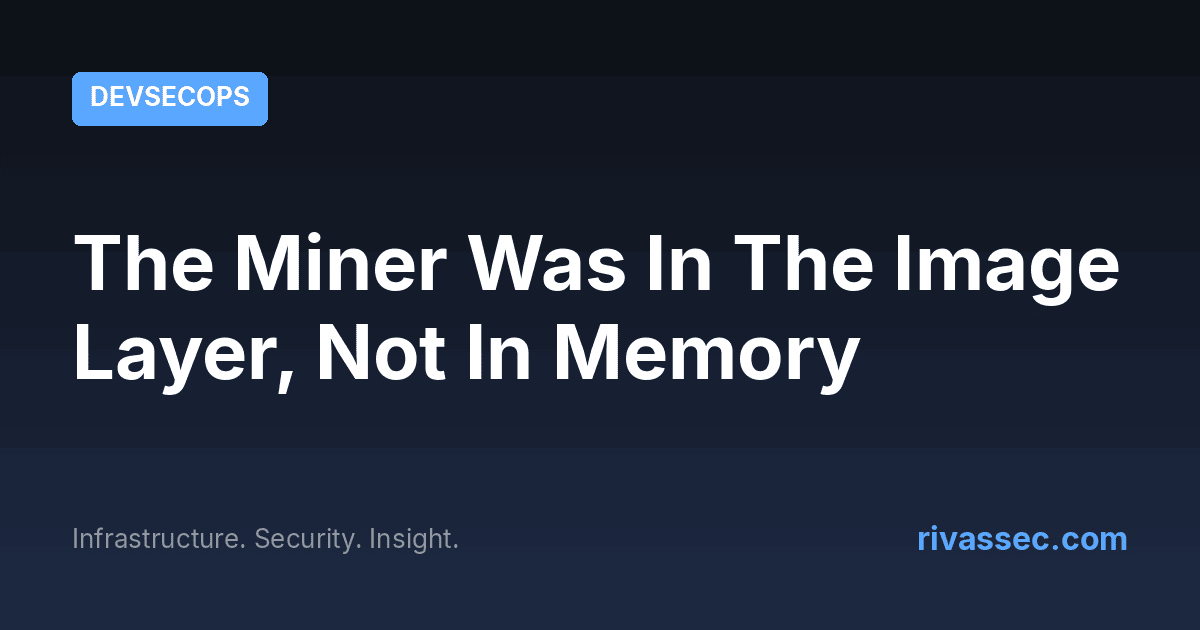
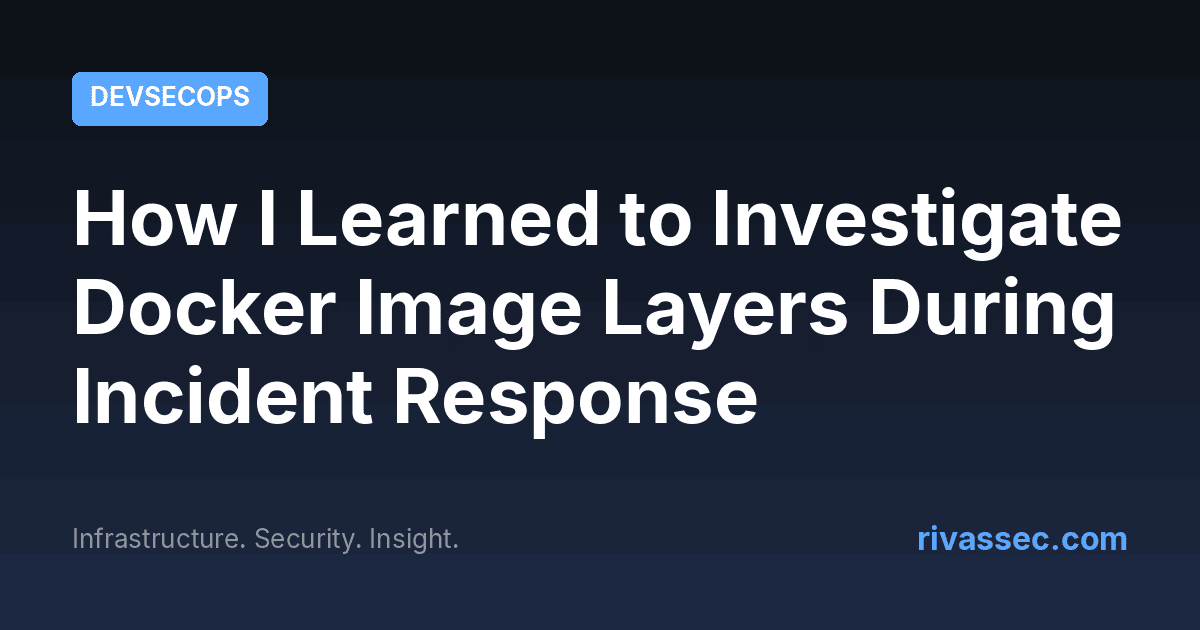
draft(cryptominer): sanitize per pre-publish security review
Applied the reviewer's recommendations to remove employer-shaped
fingerprinting from the post:

- Title shifted from incident-report ("The Miner Was In...") to
  pedagogical ("How I Learned to Investigate...") so the framing
  reads as a lesson rather than a leaked retrospective
- Lede rewritten as "during a recent container-forensics
  investigation" rather than naming the specific cloud detector
- Application stack: Flink references replaced with "Java-based
  data-processing workload" and "the application"
- IOCs removed: malware path placeholdered (<app>/<hidden_dir>/
  <obfuscated_subdir>/<binary>), SHA-256 hash removed entirely,
  overlay2 layer ID replaced with <layer-id>
- Public Monero pool domain replaced with "a public Monero mining
  pool"
- "GuardDuty" reduced to one explanatory mention plus the tag list;
  rest of the prose uses "the runtime sensor" / "cloud detector" /
  "correlation finding"
- "Falcon" removed entirely; replaced with "endpoint detector" in
  the sequel-teaser paragraph
- Attribution section compressed: removed the "image had not been
  pulled in months / mtime sat well after / unrelated stability
  issue / host got rebuilt" timeline beats that collectively form
  organizational fingerprinting; the technical hypotheses (tag
  rewrite vs on-disk tamper) survive
- Cover regenerated to match the new title

The sanitized post preserves ~95% of the technical content (overlay2
mechanics, LowerDir cross-reference, four-step validation sweep,
[…]

Changed region(s): [[0.0617, 0.3016, 0.9558, 0.6937]]

diff --git a/content/cryptominer-in-the-docker-layer.md b/content/cryptominer-in-the-docker-layer.md
@@ -1,19 +1,19 @@
-Title: The Miner Was In The Image Layer, Not In Memory
+Title: How I Learned to Investigate Docker Image Layers During Incident Response
 Date: 2026-06-24
 Modified: 2026-06-24
 Author: RivasSec
 Category: DevSecOps
 Tags: incident-response, docker, overlay2, cryptominer, guardduty, aws, forensics
 Slug: cryptominer-in-the-docker-layer
-Summary: GuardDuty said the host was mining. `ps` and `ss` came back clean. The miner was hiding one layer lower, baked into the image's overlay2 diff directory and re-dropped on every container restart. A walk through the IR sweep that almost called it a false-positive.
+Summary: A runtime detector said the host was mining. `ps` and `ss` came back clean. The miner was hiding one layer lower, baked into the image's overlay2 diff directory and re-dropped on every container restart. A walk through the IR sweep that almost called it a false-positive.
 Cover: images/covers/cryptominer-in-the-docker-layer.png
 Status: draft
 
 [TOC]
 
-GuardDuty fired several findings on a production EC2 instance in quick succession. Two `CryptoCurrency:Runtime/BitcoinTool.B!DNS` against the host and against a container on the host, one `CryptoCurrency:EC2/BitcoinTool.B!DNS` from the VPC DNS resolver, and an `AttackSequence:EC2/CompromisedInstanceGroup` correlating the others into one critical-severity event. The destination was `auto.c3pool.org`, a public Monero pool. The instance was a Flink job server.
+During a recent container-forensics investigation, I worked through an incident where the on-disk picture and the runtime picture were saying different things. The cloud provider's runtime sensor fired several correlated findings on a production EC2 instance: two cryptomining DNS detections (one against the host, one against a container running on it), one VPC-resolver-level finding for the same lookups, and a correlation finding that stitched them all into a single critical-severity event. The destination was a public Monero mining pool. The instance was running a Java-based data-processing workload in a container.
 
-I opened an SSM session onto the host, ran `ps -ef` inside the container, ran `ss -tunap`, and found nothing. No miner process. No outbound connection to the pool. No CPU pressure. The Java heap looked normal. The Flink job manager was happily doing what Flink job managers do.
+I opened an SSM session onto the host, ran `ps -ef` inside the container, ran `ss -tunap`, and found nothing. No miner process. No outbound connection to the pool. No CPU pressure. The Java heap looked normal. The application was happily doing what the application was supposed to be doing.
 
 For a while I was sure I was looking at a false-positive.
 
@@ -23,36 +23,36 @@ The miner was on disk, in one of the image's overlay2 layers. The container's fi
 
 ## The shape of the alert
 
-A modern GuardDuty IR loop has two tiers. There are the per-signal findings, which fire on a single observation: a DNS query to a known mining pool, an SSH brute-force attempt, a port scan against a sensitive port. They are designed for noise reduction. Most of them are individually low-confidence and will resolve as false-positive once a human looks.
+A modern cloud-detector IR loop has two tiers. There are the per-signal findings, which fire on a single observation: a DNS query to a known mining pool, an SSH brute-force attempt, a port scan against a sensitive port. They are designed for noise reduction. Most of them are individually low-confidence and will resolve as false-positive once a human looks.
 
-Then there are the correlation findings. `AttackSequence:EC2/CompromisedInstanceGroup` is one of those. It does not fire on a single signal. It fires when GuardDuty has stitched together several signals into a coherent story: a brute-force from a known-bad IP, then a port probe from a different known-bad IP, then a process inside a container talking to a mining pool, all on the same instance, in the same window. The finding hands you the timeline pre-assembled.
+Then there are the correlation findings. AWS GuardDuty calls these `AttackSequence` findings; other clouds and EDRs have analogues. The defining property is that they do not fire on a single signal. They fire when the detector has stitched several signals into a coherent story: a brute-force from a known-bad IP, then a port probe from a different known-bad IP, then a process inside a container talking to a mining pool, all on the same instance, in the same window. The finding hands you the timeline pre-assembled.
 
 Per-signal findings can be wrong. Correlation findings can be wrong too, but in my experience they earn priority because they pre-stitch the timeline and tend to carry the highest-confidence detail in the inbox. The lesson I keep relearning is to read them first, especially before declaring per-signal findings false-positive.
 
-In this case the AttackSequence finding listed the file path on disk:
+In this case the correlation finding listed the file path on disk:
 
 ```
-/opt/flink/.usr_gsdm/lib/systemdev/dns-filter
+/opt/<app>/.<hidden_dir>/lib/<obfuscated_subdir>/<binary>
 ```
 
-That string was in the JSON. Not a heuristic, not a prediction, a path. GuardDuty's runtime sensor had observed the binary executing and recorded its on-disk location.
+That string was in the JSON. Not a heuristic, not a prediction, a path. The runtime sensor had observed the binary executing and recorded its on-disk location.
 
 That is when I went looking on the host.
 
 ## The path that mattered
 
-The container view is not the host view. Inside the Flink job manager container, `/opt/flink/.usr_gsdm/lib/systemdev/dns-filter` resolves to whatever the overlayfs union mount makes visible at that moment. From the host, the same content lives in several overlay2 paths depending on what you are asking about. Two of them matter for this story.
+The container view is not the host view. Inside the running container, the binary path resolved to whatever the overlayfs union mount made visible at that moment. From the host, the same content lives in several overlay2 paths depending on what you are asking about. Two of them matter for this story.
 
 The first one is the image's diff directory:
 
 ```
-/var/lib/docker/overlay2/bed3ac13bfa4f2562f99ec7ec9f9be614371a16d6af056a66343cbb125b61b65/diff/opt/flink/.usr_gsdm/lib/systemdev/dns-filter
+/var/lib/docker/overlay2/<layer-id>/diff/opt/<app>/.<hidden_dir>/lib/<obfuscated_subdir>/<binary>
 ```
 
 The second one is the merged view, which is what the running container actually sees:
 
 ```
-/var/lib/docker/overlay2/bed3ac13bfa4f2562f99ec7ec9f9be614371a16d6af056a66343cbb125b61b65/merged/opt/flink/.usr_gsdm/lib/systemdev/dns-filter
+/var/lib/docker/overlay2/<layer-id>/merged/opt/<app>/.<hidden_dir>/lib/<obfuscated_subdir>/<binary>
 ```
 
 These two paths are related but not equivalent, and the difference is the entire post.
@@ -63,45 +63,35 @@ The `merged` directory is the union view of all layers stacked together. It is w
 
 The other two paths are `upperdir` (the writable layer the container can modify at runtime) and `workdir` (overlay's scratch space). I checked both. The malicious binary was in neither. It was in a lower layer's `diff` directory, the read-only foundation that came down with the image pull.
 
-To make sure I had the layer role right, I cross-referenced against `docker inspect <container>`. The `GraphDriver.Data.LowerDir` chain on the running container included this directory in its read-only stack, which is what marks it as a build-time image layer rather than the container's writable upper. `docker history` told me the image had `COPY` steps in its build (which is unsurprising for a Flink image) but `docker history` shows the instruction, not the per-file provenance, so I am not claiming it identified `dns-filter` specifically. The shape of the evidence is "this layer is in the LowerDir chain, the LowerDir chain is read-only, the running container's writable space is empty for this path." That is enough to place the file in an image layer.
+To make sure I had the layer role right, I cross-referenced against `docker inspect <container>`. The `GraphDriver.Data.LowerDir` chain on the running container included this directory in its read-only stack, which is what marks it as a build-time image layer rather than the container's writable upper. `docker history` told me the image had `COPY` steps in its build (which is unsurprising for any non-trivial image) but `docker history` shows the instruction, not the per-file provenance, so I am not claiming it identified the specific binary. The shape of the evidence is "this layer is in the LowerDir chain, the LowerDir chain is read-only, the running container's writable space is empty for this path." That is enough to place the file in an image layer.
 
 That distinction matters. A miner in the writable upperdir would be a runtime drop, written into the container after it started, possibly by a process inside it. A miner in an image layer means the image itself is the persistence mechanism. If that layer originated from the image (rather than from on-disk tampering, which I cover next), every container created from this image inherits the file at birth.
 
 ## What the binary did
 
-The pattern I inferred (and want to flag as inferred, since I never finished reconstructing the execution chain) is that the binary ran shortly after container start, fired one DNS query to the pool, tried to start mining, and died before steady state. The Flink JVM was using almost all the cgroup memory and the miner could not get a foothold. By the time I looked, the process was not on the system anymore. GuardDuty's runtime sensor logged the execution and the DNS query each cycle; I did not pull the per-execution timestamps and process ancestry from those records before the host got rebuilt, so the precise launch path is something I am calling "consistent with container-start triggering" rather than proven.
+The pattern I inferred (and want to flag as inferred, since I never finished reconstructing the execution chain) is that the binary ran shortly after container start, fired one DNS query to the pool, tried to start mining, and died before steady state. The application's JVM was using almost all the cgroup memory and the miner could not get a foothold. By the time I looked, the process was not on the system anymore. The runtime sensor logged the execution and the DNS query each cycle; the per-execution timestamps and process ancestry would have helped me pin down the precise launch path, but I did not extract them from the sensor's records before the host got rebuilt.
 
 This is why `ps` was empty.
 
-The pattern repeated on every restart. The team had been bouncing the container hard for an unrelated stability issue over the prior couple of days. Each restart re-mounted the poisoned layer, the miner came up briefly, fired DNS, lost the resource fight, and died. GuardDuty's runtime sensor caught the DNS each time. The host-level `ps` view, sampled later by a human, missed it every time.
+The pattern repeated on every restart. There had been an unusual amount of container churn for an unrelated stability issue. Each restart re-mounted the poisoned layer, the miner came up briefly, fired DNS, lost the resource fight, and died. The runtime sensor caught the DNS each time. The host-level `ps` view, sampled later by a human, missed it every time.
 
-The binary itself is around 9.8 MB, owned by `flink` (uid 9999). SHA-256:
-
-```
[1 lines of base64/hex data omitted]
-```
+We calculated and tracked the binary's SHA-256 during analysis (it was around 9.8 MB, owned by the application's runtime user). I am not publishing the hash here; it is a real IOC from a real incident and serves no educational purpose in the post.
 
 I will note here that file mtimes inside an image layer are weak forensic evidence: tar archives can preserve build-host timestamps, `COPY` carries them across, and an attacker with write access can `touch` whatever they want. I am treating mtime as a clue, not as proof of when the file arrived on the host.
 
-The path on disk uses a leading dot for the parent directory (`.usr_gsdm`) so a casual `ls` of `/opt/flink/lib/` does not show it. The binary is named `dns-filter`, which sounds plausible next to a real Flink deployment that does in fact filter DNS-shaped log entries. The disguise is decent. It is not great. It is exactly good enough to survive a reviewer who is glancing at file listings.
+The path on disk used a leading dot for the parent directory so a casual `ls` of the parent did not show it. The binary's name was a plausible-sounding match for the kinds of helpers the application legitimately ships. The disguise was decent. It was not great. It was exactly good enough to survive a reviewer glancing at a file listing.
 
 ## Was the image poisoned at build time, or on disk?
 
 This is where the post stops being a clean story.
 
-The image had not been pulled in months. The malicious binary's mtime sat well after the last pull, by enough that no `docker pull` of this image happened in the interval.
+Two explanations remained plausible. The first is a supply-chain compromise of the registry: OCI digests are content-addressed and cannot be mutated in place, but the *tag* a deployment tracks maps to a digest, and that mapping can be moved by anyone with push access to the repository. A fresh pull after a tag rewrite would surface a malicious layer without anything happening on the host. The second is on-disk tampering: a process on the host with root or `docker`-group access modifying the local layer storage directly.
 
-That leaves two hypotheses.
+A digest comparison between the host's recorded image digest and the registry's currently-advertised digest for the tag will tell you the tag is *currently* mapped to the digest the host has. It does not tell you whether the tag was *ever* pointed at a different digest in the meantime. On-disk tampering is also harder to disprove than a `cp`-style edit, because Docker stores layer metadata in `imagedb` and a thorough tamperer would update both.
 
-One: the tag this deployment tracked was rewritten upstream to point at a different digest, and a fresh pull at some later point brought down a malicious layer. OCI digests are content-addressed and cannot be mutated in place, but tags map to digests and that mapping can be moved by anyone with push access to the repository. This is a supply-chain compromise of the registry, expressed as a tag rewrite that surfaces malicious content the next time someone resolves the tag.
+Because containment took priority over historical reconstruction, attribution remained unresolved, and I am writing it that way on purpose. Most incident write-ups jump to attribution because attribution makes the story feel done. The middle of the story is "find the malware on disk." The end is "tell people how to find it." Attribution sits outside this scope.
 
-Two: the image on this host was modified on disk after the pull. Some process on the host wrote into the layer's diff directory directly, with root or `docker`-group access. This is on-disk tampering, which means the attacker had host-level write access to `/var/lib/docker/overlay2/...` at some point.
-
-I cannot tell which one happened from the data on hand. I compared the digest the host had recorded for this image against the digest the registry was currently advertising for the deployment's tag, and they matched. That tells you something narrow: the tag is currently mapped to the same digest the host pulled. It does not tell you whether the tag was *ever* pointed at a different digest in between. On-disk tampering remains possible too; it would require modification of Docker's layer storage and the corresponding metadata in `imagedb` rather than a simple file copy, but root on the host is sufficient.
-
-This is unresolved. We prioritized containment and rebuild-from-clean over deep historical forensics, which is its own scope choice and one I'd make again with the same constraints. Most incident write-ups jump to attribution because attribution makes the story feel done, and the people who paid to read it want a beginning, middle, and end. The middle is "find the malware on disk." The end is "tell people how to find it." Attribution sits outside this scope.
-
-There is a second gap I did not close before rebuild: the execution chain. I confirmed the binary executed and I confirmed it was on disk in an image layer, but I did not finish reconstructing what launched it. The candidates were the image's `ENTRYPOINT`, the Flink-specific bootstrap scripts shipped by the workload, an `LD_PRELOAD` in the image, a startup hook in the container's init system, or a sidecar I had not noticed. The image got rebuilt and the host got cleaned before I closed that loop. If I had to do it again with more time, the first thing I would walk is `docker inspect <image>` for `Entrypoint` and `Cmd`, then every shell script those reference, looking for the call that named or invoked `dns-filter`.
+There is a second gap I did not close before rebuild: the execution chain. I confirmed the binary executed and I confirmed it lived on disk in an image layer, but I did not finish reconstructing what launched it. Candidates included the image's `ENTRYPOINT`, the application's bootstrap shell scripts, an `LD_PRELOAD` in the image, a startup hook in the container's init system, or a sidecar I had not noticed. With more time, the first thing I would walk is `docker inspect <image>` for `Entrypoint` and `Cmd`, then every shell script those reference, looking for the line that invokes the binary.
 
 ## What "clean" means now
 
@@ -111,8 +101,8 @@ The image got rebuilt from a known-good source, signed, and re-published. The ho
 
 Validation was the same forensic sweep that found the miner originally:
 
-- Run a `find /var/lib/docker/overlay2 -name 'dns-filter'` against the host (catches the specific binary; useful as a quick check, not durable since the next attacker will use a different name).
-- Compare every layer's `diff/opt/flink/` listing against the new clean image's expected contents.
+- Run a `find /var/lib/docker/overlay2 -name '<binary-name>'` against the host (catches the specific binary; useful as a quick check, not durable since the next attacker will use a different name).
+- Compare every layer's `diff/<app-root>/` listing against the new clean image's expected contents.
 - SHA-256 every file in every diff directory and compare against an allow-list derived from the rebuilt image. This is the durable check.
 - Pull the new image's digest from the registry and compare against the on-disk digest record after the next deploy.
 
@@ -124,8 +114,8 @@ A negative result on all four is the validation. The third one, the per-file SHA
 
 A `find /var/lib/docker/overlay2 -type f -newer <T>` is a five-second query and it would have caught this in the first pass. That command is going into the runbook, alongside the bandit-hardening checklist I wrote up recently for a different threat model in [Bandit-Clean Pwnagotchi Plugins]({filename}pwnagotchi-plugin-bandit-hardening.md). That post was about an imagined attacker with one foothold. This one was a real one with the same foothold and a much bigger blast radius.
 
-The other thing I am changing is the order of the GuardDuty review. I read the AttackSequence finding well after the per-signal findings, because I was sweeping them in chronological order and AttackSequence was the most recent. The next time, the correlation finding gets read first. It is the cheapest path to the highest-confidence signal in the inbox, and it would have handed me the binary path before I started believing the host was clean.
+The other thing I am changing is the order in which I read cloud-detector findings. I read the correlation finding well after the per-signal findings, because I was sweeping them in chronological order and the correlation was the most recent. The next time, the correlation gets read first. It is the cheapest path to the highest-confidence signal in the inbox, and it would have handed me the binary path before I started believing the host was clean.
 
-There is a story to write about the other half of this incident, which is what happened on my analyst laptop while I was investigating the host. Falcon fired a true-positive on me partway through the work, because I `curl`'d the attacker's dropper into `/tmp` for hash analysis and that traffic looks identical to a real T1105 ingress tool transfer. That post is in the queue. The lesson there is that authorized analyst activity creates real EDR alerts and they need real attribution.
+There is a story to write about the other half of this investigation, which is what happened on my analyst laptop while I was working the host. The endpoint detector fired a true-positive on me partway through the work, because I `curl`'d the attacker's dropper into `/tmp` for hash analysis and that traffic looks identical to a real T1105 ingress tool transfer. That post is in the queue. The lesson there is that authorized analyst activity creates real EDR alerts and they need real attribution.
 
 The container starts looking clean exactly when you stop looking carefully.